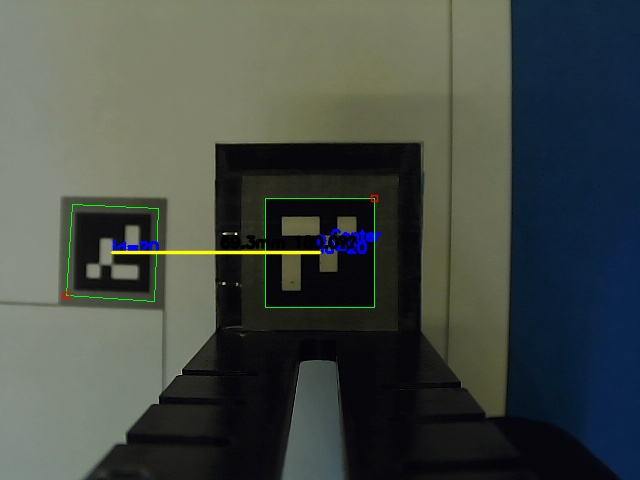
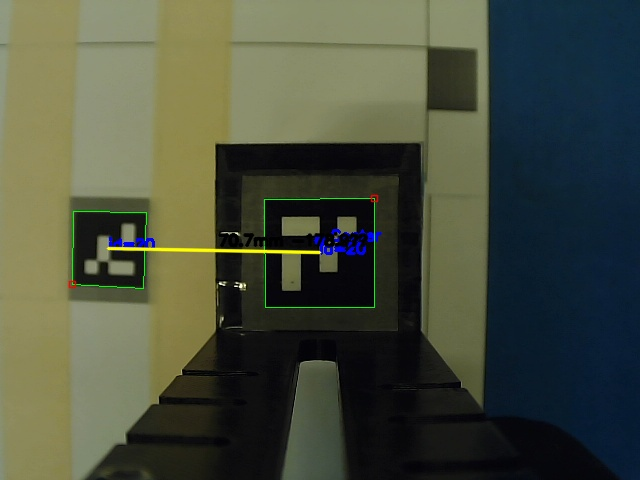
y alignment

diff --git a/utils.py b/utils.py
@@ -338,10 +338,11 @@ from detect_aruco import *
 def calibrate(calibration_distance, base_pose, move_axis='y', camera_index=0, save_dir="samples"):
     """
     Perform camera-to-motion calibration using ArUco marker distances.
-    - Moves robot through multiple Y positions (A, B, C ...)
-    - Captures images
-    - Detects ArUco marker spacing
-    - Computes measured offset
+    - Moves robot to baseline (A)
+    - Takes image, measures ArUco marker spacing
+    - Moves robot in steps (B, C, ...)
+    - Measures new marker spacing
+    - Computes offset vs baseline
     - Logs results to CSV
     """
     print("\n🔹 Starting calibration procedure...")
@@ -349,12 +350,12 @@ def calibrate(calibration_distance, base_pose, move_axis='y', camera_index=0, sa
 
     os.makedirs(save_dir, exist_ok=True)
 
-    # --- Open camera ---
+    # --- Open Camera ---
     cap = cv2.VideoCapture(camera_index)
     if not cap.isOpened():
         raise RuntimeError("❌ Could not open camera.")
 
-    # === POSITION A ===
+    # === POSITION A (BASELINE) ===
     print("➡ Moving to position A...")
     woody.write_cartesian_position(base_pose)
     time.sleep(2)
@@ -374,29 +375,30 @@ def calibrate(calibration_distance, base_pose, move_axis='y', camera_index=0, sa
         img_A_path, return_marked=True, measure=True, show=True
     )
 
-    # === Storage ===
+    # === Storage Containers ===
     images = {"image_A": image_A}
-    center_to_center = [dist_A]   # index 0 is for A
-    x_offset = [0]                # offset for A is 0
+    center_to_center = [dist_A]   # baseline measurement
+    x_offset = [0]                # baseline offset = 0
 
-    # ========= LOOP OVER REMAINING POSITIONS =========
-    index = 0
-    for distance_label in calibration_distance:
+    # ========= LOOP OVER CALIBRATION POSITIONS =========
+    for i, dist in enumerate(calibration_distance):
 
-        index += 1
+        # Compute letter B, C, D ...
         letter = chr(ord(letter) + 1)
         image_key = f"image_{letter}"
 
         print(f"➡ Moving to position {image_key}...")
 
+        # Perform motion
         plc.travel(
             Y_LEFT_MOTION,
-            calibration_distance[distance_label],
+            dist,       # <-- movement in mm
             "mm",
             move_axis
         )
         time.sleep(2)
 
+        # Capture image
         ret, frame = cap.read()
         if not ret:
             raise RuntimeError(f"❌ Failed to capture image at position {image_key}.")
@@ -408,15 +410,14 @@ def calibrate(calibration_distance, base_pose, move_axis='y', camera_index=0, sa
         print(f"📸 {image_key} saved to {img_path}")
 
         # Marker detection
-        dist_B, marked_B = detect_from_image(
+        dist_measured, marked_img = detect_from_image(
             img_path, return_marked=True, measure=True, show=True
         )
 
-        # Store
-        center_to_center.append(dist_B)
+        center_to_center.append(dist_measured)
 
-        # Compute X offset (difference in marker spacing)
-        offset = center_to_center[0] - dist_B
+        # Compute offset from A
+        offset = center_to_center[0] - dist_measured
         x_offset.append(offset)
 
         print(f"📏 Measured offset at {image_key} = {offset:.3f} mm")
@@ -427,8 +428,8 @@ def calibrate(calibration_distance, base_pose, move_axis='y', camera_index=0, sa
 
         data = {
             "position": [letter],
-            "move_command_mm": [calibration_distance[distance_label]],
-            "marker_spacing_mm": [dist_B],
+            "move_command_mm": [dist],          # <-- FIXED
+            "marker_spacing_mm": [dist_measured],
             "offset_from_A_mm": [offset],
         }
 
@@ -439,49 +440,33 @@ def calibrate(calibration_distance, base_pose, move_axis='y', camera_index=0, sa
     # === CLEANUP ===
     cap.release()
     cv2.destroyAllWindows()
+    # Convert offsets to a simple Python list (already is, but ensure clean print)
+    offset_list = [float(x) for x in x_offset]
 
-    print("✅ Calibration complete.\n")
+    print("\nOffsets (mm):")
+    print(offset_list)
 
-    return x_offset
+    return offset_list
 
 
 
-
-# === Main Run ===
+# === MAIN RUN ===
 if __name__ == "__main__":
-    for x in range(1):
-        safety_check()
-        calibration_distance = 400
-        # woody.set_speed(200)
-        base_pose = [200, 0, 0, 0, 90, 0]
-        offset = calibrate(calibration_distance, base_pose, move_axis='y', camera_index=0, save_dir="samples")
-    # print("[HOME] Moving robot to home position")
-    # woody.set_robot_uframe(1)     # Select pellet extruder user frame
-    # woody.set_robot_utool(1)  
-    # woody.set_speed(100)                             # Set travel speed (mm/s)
-    # woody.set_robot_speed_percent(100)   
-    # time.sleep(1)
-    # home_joint_pose = [0,-40, 40, 0, -40, 0]
-    # woody.write_joint_pose(home_joint_pose)
 
-    # woody.write_joint_pose(home_joint_pose)
-    # pose = [0,0, 0, 46.029, 89.995, 46.028]
+    # pose = [200, 0, 0, 46.029, 89.995, 46.028]
     # woody.write_cartesian_position(pose)
+    base_pose = [200, 0, 0, 0, 90, 0]
+    woody.write_cartesian_position(base_pose)
 
-    # pose[1]+=500
-    # woody.write_cartesian_position(pose)
-
-    # pose[1]-=500
-    # woody.write_cartesian_position(pose)
-
-    # pose[1]-=500
-    # woody.write_cartesian_position(pose)
-    
-    # # pose1 = [0,-26.898, 5.357, -180, -84.643, 360]
-    # # woody.write_joint_pose(pose1)
-
-    # # pose2 = [-31.119,-22.600, 12.896, -141.002, -93.904, 330.238]
-    # # woody.write_joint_pose(pose1)
-    
-    # # pose3 = [-31.119,-22.600, 12.896, -141.002, -93.904, 330.238]
-    # # woody.write_joint_pose(pose1)
+    # for x in range(1):
+    #     safety_check()
+    #     calibration_distance = [200,200]   # movement distances in mm
+    #     base_pose = [200, 0, 0, 0, 90, 0]
+    #     woody.write_cartesian_position(base_pose)
+    #     offset = calibrate(
+    #         calibration_distance,
+    #         base_pose,
+    #         move_axis='y',
+    #         camera_index=0,
+    #         save_dir="samples"
+    #     )
